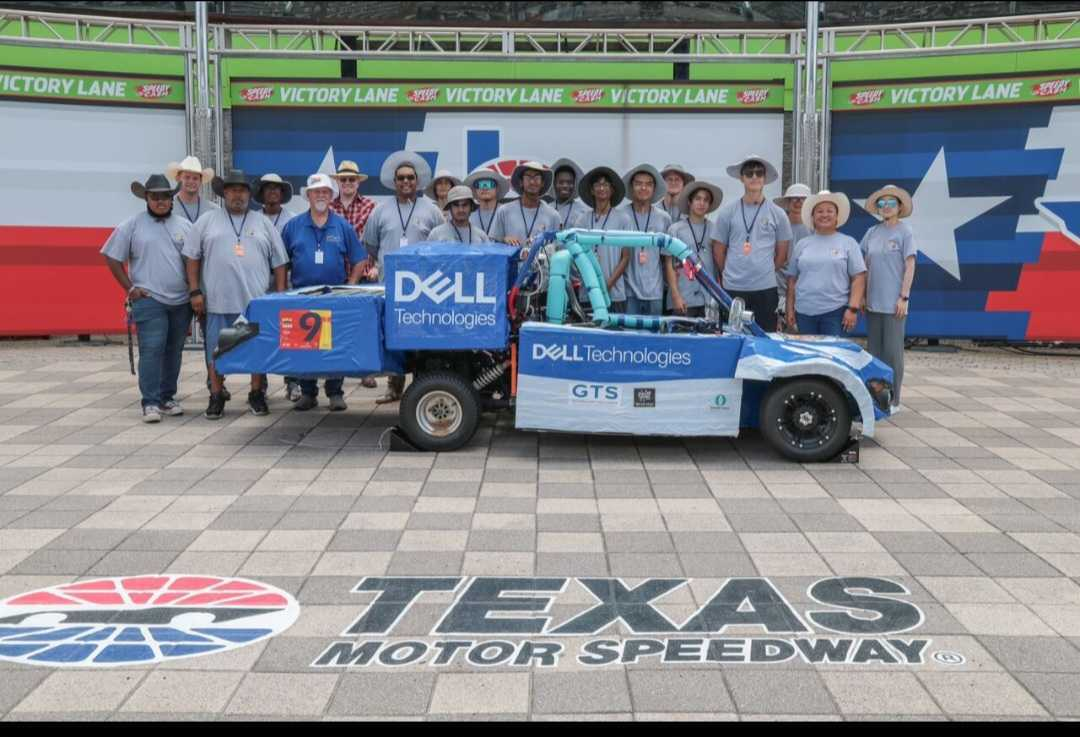
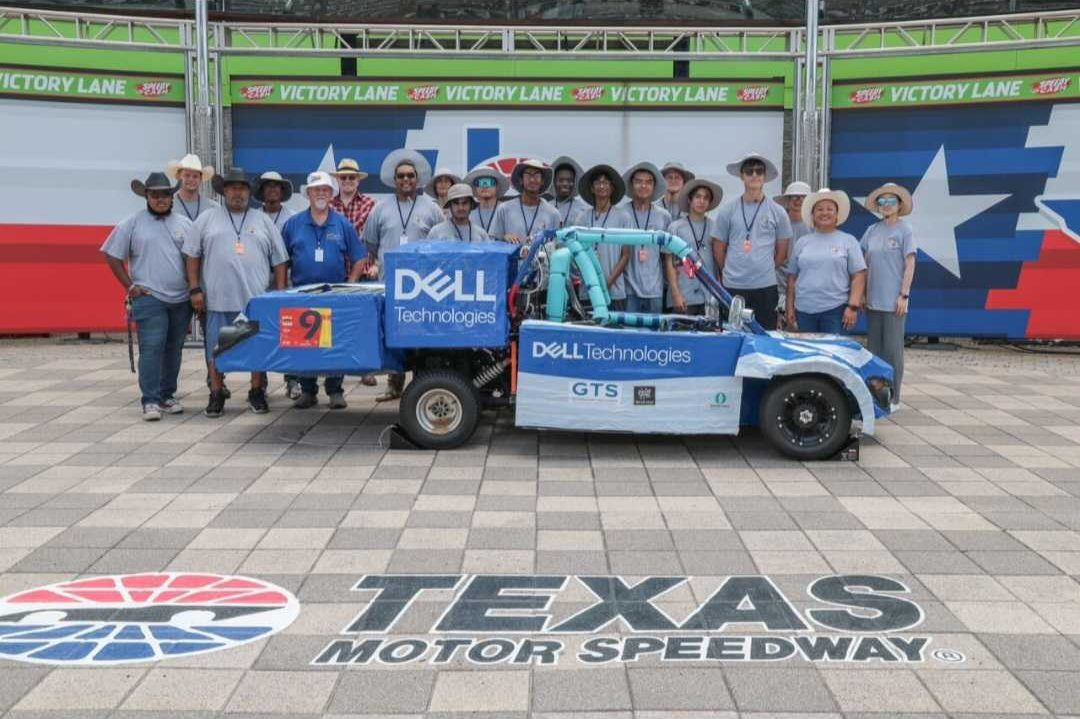
updated the hero photo and layout of the home page

diff --git a/src/components/sections/HeroSection.tsx b/src/components/sections/HeroSection.tsx
@@ -2,32 +2,44 @@ import { Button } from "@/components/ui/button";
 import { ChevronRight, Zap, Trophy } from "lucide-react";
 import heroImage from "@/assets/hero-team-photo.jpg";
 
+const LearningIcon = ({ className }: { className?: string }) => (
+  <svg className={className} fill="currentColor" viewBox="0 0 24 24">
+    <path d="M12 2L13.09 8.26L19 7.27L14.18 12.73L20.5 14.36L13.5 17.5L15.27 22L12 19.09L8.73 22L10.5 17.5L3.5 14.36L9.82 12.73L5 7.27L10.91 8.26L12 2Z" />
+  </svg>
+);
+
+const features = [
+  { icon: Zap, title: "Innovation", description: "Cutting-edge solar technology" },
+  { icon: Trophy, title: "Competition", description: "National racing championships" },
+  { icon: LearningIcon, title: "Learning", description: "Real-world engineering experience" },
+];
+
 export function HeroSection() {
   return (
-    <section className="relative min-h-screen flex items-center justify-center overflow-hidden">
-      {/* Background Image - Cropped from top */}
-      <div className="absolute inset-0 z-0">
+    // Top padding matches the fixed header's height so content starts just below it
+    <section className="pt-[73px] sm:pt-[89px]">
+      <div className="px-4 sm:px-6 lg:px-8 py-6 sm:py-8 xl:py-6 text-center animate-fade-in">
+        <h1 className="text-3xl font-bold tracking-tight sm:text-5xl lg:text-6xl xl:text-5xl mb-3 sm:mb-4">
+          Racing Towards a<span className="block xl:inline"> Sustainable Future</span>
+        </h1>
+        <p className="text-base sm:text-xl text-muted-foreground max-w-2xl mx-auto leading-relaxed">
+          We design, build, and race solar-powered vehicles while learning cutting-edge engineering skills and
+          promoting renewable energy innovation.
+        </p>
+      </div>
+
+      <div className="relative">
+        {/* On wide screens the photo is cropped so the button and icons sit over the pavement and the bottom of the
+            car, keeping every face clear. Narrower screens show the full photo with the button and icons below it. */}
         <img
           src={heroImage}
           alt="Stony Point Solar Car Team at Texas Motor Speedway with solar vehicle"
-          className="w-full h-full object-cover object-[center_20%]"
+          className="w-full h-auto xl:aspect-[8/3] xl:object-cover object-[center_42%]"
         />
-        <div className="absolute inset-0 bg-gradient-to-br from-primary/40 via-black/50 to-secondary/30" />
-      </div>
+        <div className="hidden xl:block absolute inset-x-0 bottom-0 h-2/5 bg-gradient-to-t from-black/75 to-transparent" />
 
-      {/* Content - Positioned to show car and people */}
-      <div className="relative z-10 px-4 sm:px-6 lg:px-8 w-full">
-        <div className="max-w-4xl mx-auto pt-20 sm:pt-24 text-left sm:text-center animate-fade-in">
-          <h1 className="text-3xl font-bold tracking-tight text-white sm:text-5xl lg:text-6xl mb-4 sm:mb-6">
-            Racing Towards a<span className="block text-white">Sustainable Future</span>
-          </h1>
-
-          <p className="text-base sm:text-xl text-white/90 mb-6 sm:mb-8 max-w-2xl mx-auto leading-relaxed">
-            We design, build, and race solar-powered vehicles while learning cutting-edge engineering skills and
-            promoting renewable energy innovation.
-          </p>
-
-          <div className="flex justify-center items-center mb-12 sm:mb-16 mt-4 sm:mt-6">
+        <div className="xl:absolute xl:inset-x-0 xl:bottom-0 px-4 sm:px-6 lg:px-8 py-8 xl:py-5">
+          <div className="flex justify-center items-center">
             <Button
               variant="hero"
               size="lg"
@@ -40,36 +52,24 @@ export function HeroSection() {
               </a>
             </Button>
           </div>
-        </div>
 
-        {/* Stats moved to bottom to show more of the image */}
-        <div className="max-w-4xl mx-auto mt-24 sm:mt-40 pb-12 sm:pb-16">
-          <div className="grid grid-cols-1 sm:grid-cols-3 gap-6 sm:gap-8 text-white">
-            <div className="flex flex-col items-center">
-              <div className="bg-white/10 rounded-full p-3 sm:p-4 mb-3 sm:mb-4 backdrop-blur-sm">
-                <Zap className="h-6 w-6 sm:h-8 sm:w-8" />
+          <div className="max-w-4xl xl:max-w-6xl mx-auto mt-8 xl:mt-14 grid grid-cols-3 gap-2 sm:gap-6 xl:gap-16 xl:text-white">
+            {features.map(({ icon: Icon, title, description }) => (
+              <div
+                key={title}
+                className="flex flex-col items-center text-center xl:flex-row xl:justify-center xl:text-left xl:gap-3"
+              >
+                <div className="bg-primary/10 text-primary xl:bg-white/15 xl:text-white xl:backdrop-blur-sm rounded-full p-2 sm:p-3 xl:p-3.5 mb-2 xl:mb-0 shrink-0">
+                  <Icon className="h-6 w-6 sm:h-7 sm:w-7 xl:h-8 xl:w-8" />
+                </div>
+                <div>
+                  <h3 className="text-sm sm:text-xl font-semibold">{title}</h3>
+                  <p className="text-muted-foreground xl:text-white/90 text-xs leading-tight sm:text-base sm:leading-normal">
+                    {description}
+                  </p>
+                </div>
               </div>
-              <h3 className="text-base sm:text-lg font-semibold mb-1 sm:mb-2">Innovation</h3>
-              <p className="text-white/80 text-xs sm:text-sm">Cutting-edge solar technology</p>
-            </div>
-
-            <div className="flex flex-col items-center">
-              <div className="bg-white/10 rounded-full p-3 sm:p-4 mb-3 sm:mb-4 backdrop-blur-sm">
-                <Trophy className="h-6 w-6 sm:h-8 sm:w-8" />
-              </div>
-              <h3 className="text-base sm:text-lg font-semibold mb-1 sm:mb-2">Competition</h3>
-              <p className="text-white/80 text-xs sm:text-sm">National racing championships</p>
-            </div>
-
-            <div className="flex flex-col items-center">
-              <div className="bg-white/10 rounded-full p-3 sm:p-4 mb-3 sm:mb-4 backdrop-blur-sm">
-                <svg className="h-6 w-6 sm:h-8 sm:w-8" fill="currentColor" viewBox="0 0 24 24">
-                  <path d="M12 2L13.09 8.26L19 7.27L14.18 12.73L20.5 14.36L13.5 17.5L15.27 22L12 19.09L8.73 22L10.5 17.5L3.5 14.36L9.82 12.73L5 7.27L10.91 8.26L12 2Z" />
-                </svg>
-              </div>
-              <h3 className="text-base sm:text-lg font-semibold mb-1 sm:mb-2">Learning</h3>
-              <p className="text-white/80 text-xs sm:text-sm">Real-world engineering experience</p>
-            </div>
+            ))}
           </div>
         </div>
       </div>
